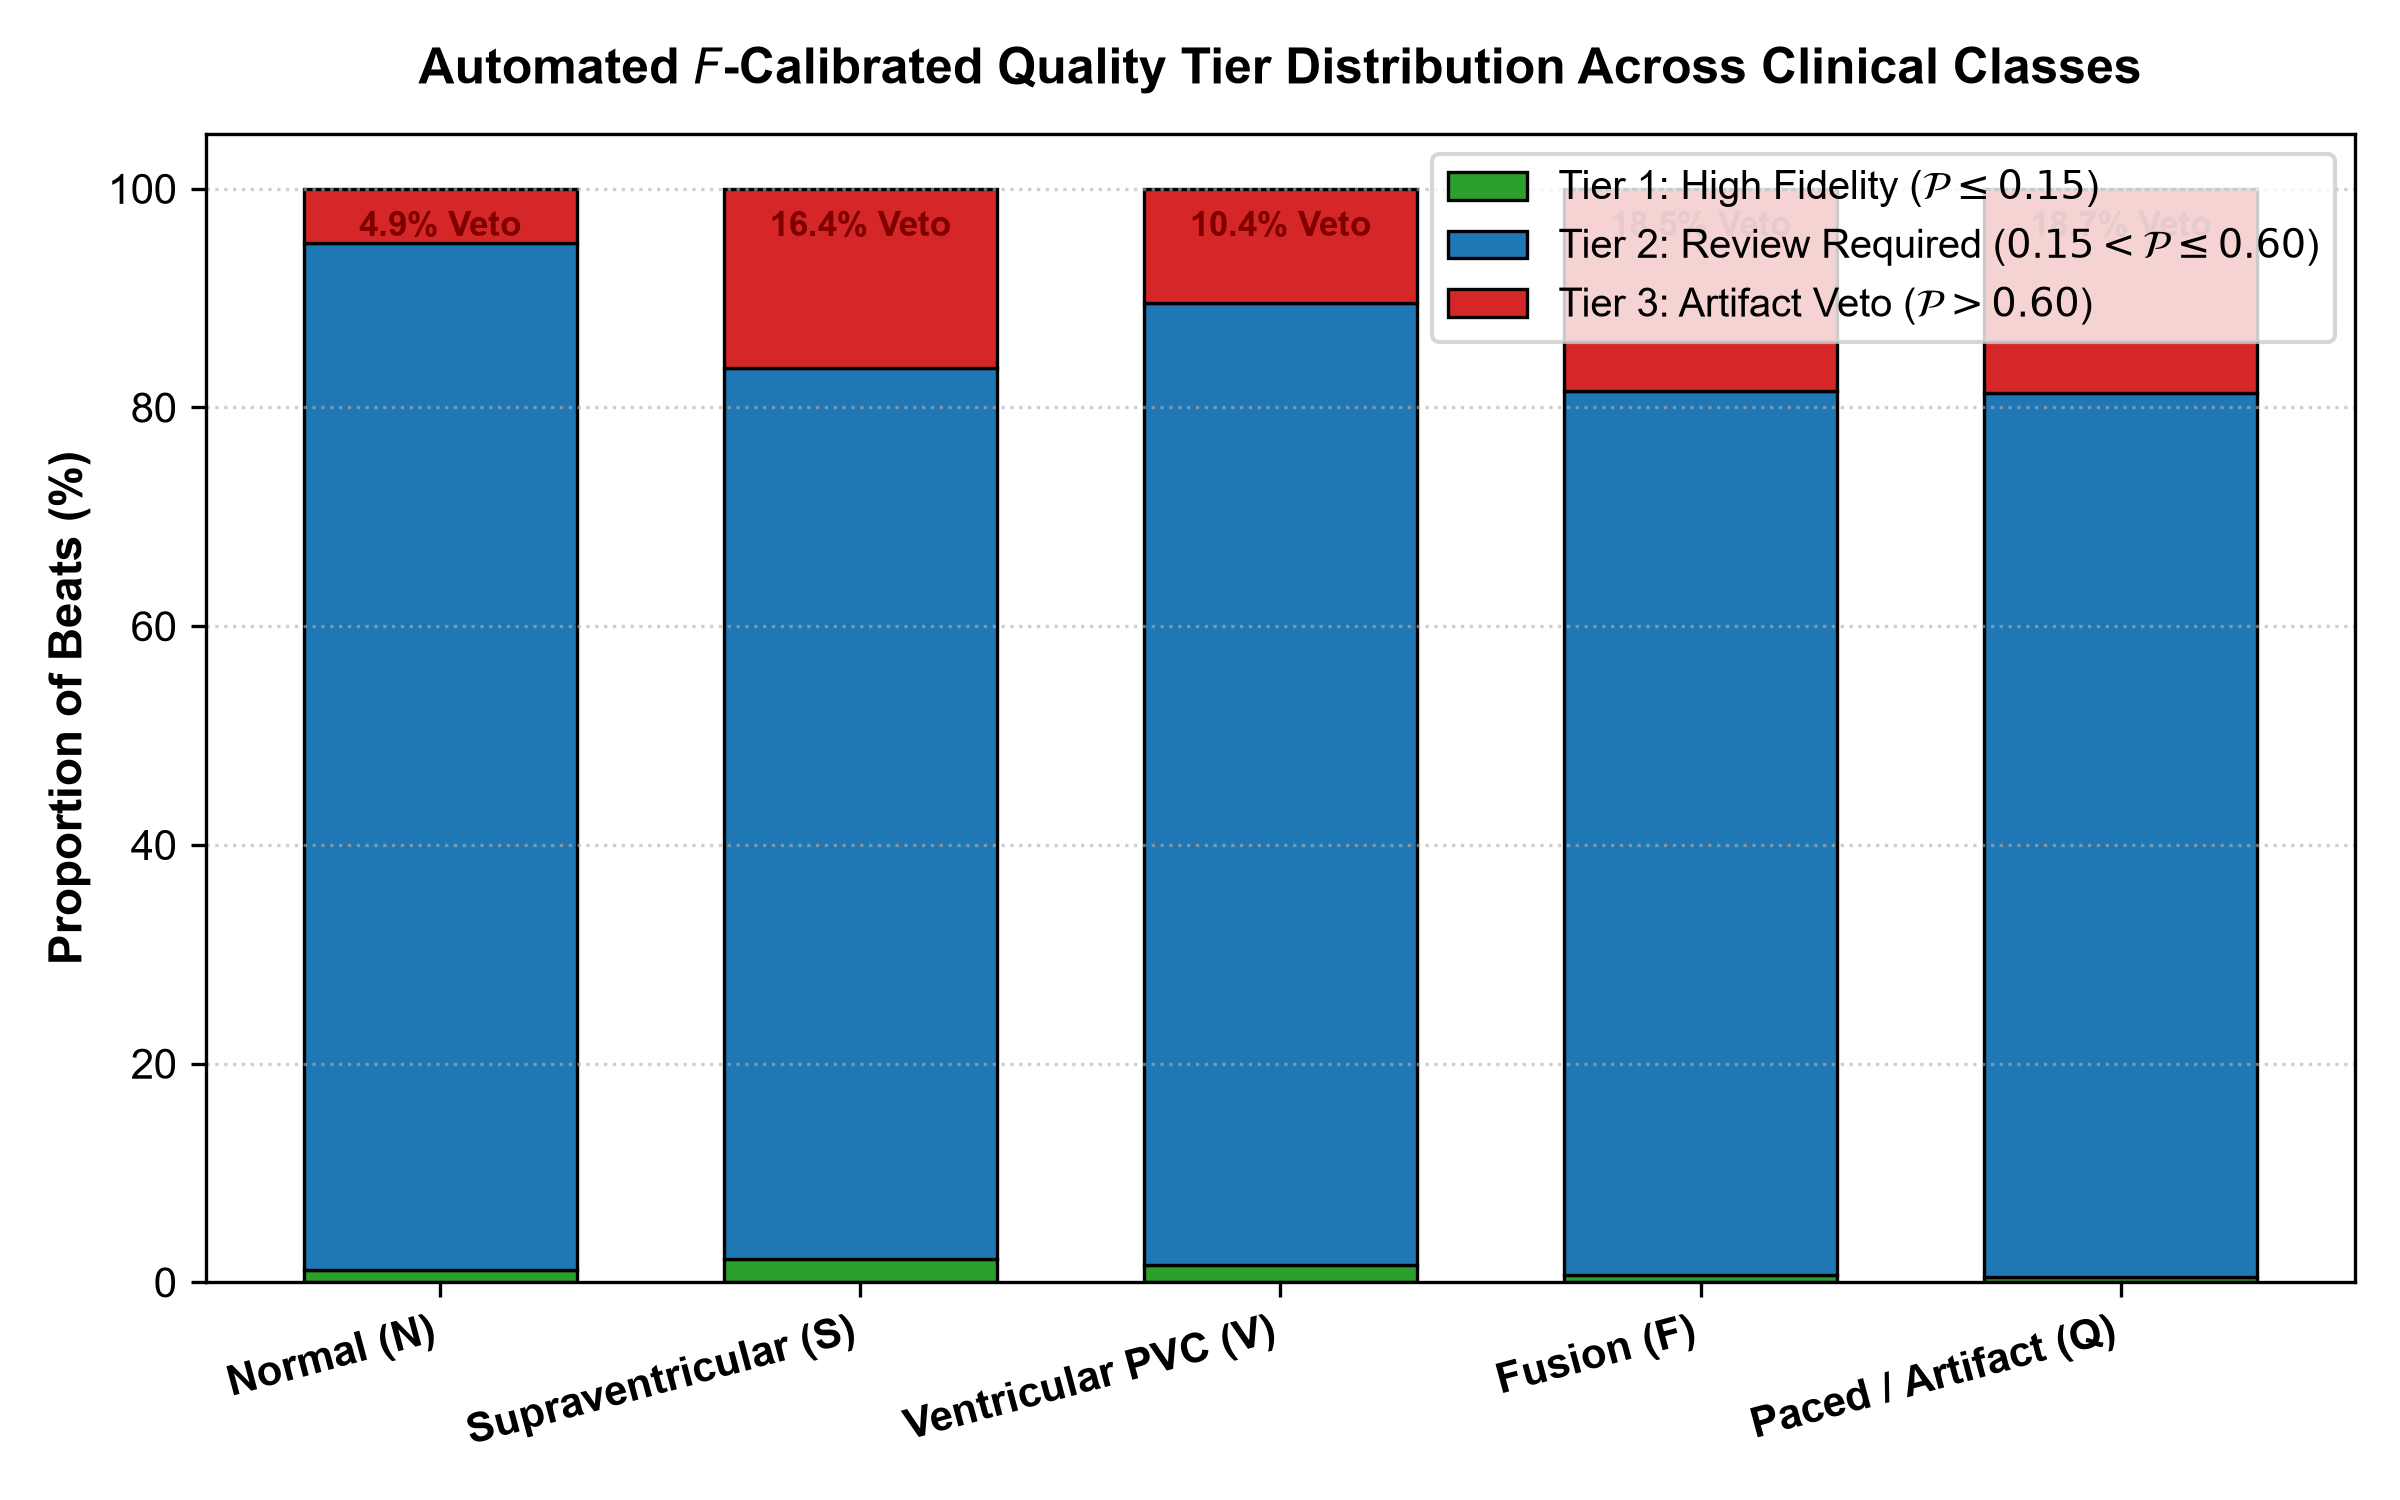
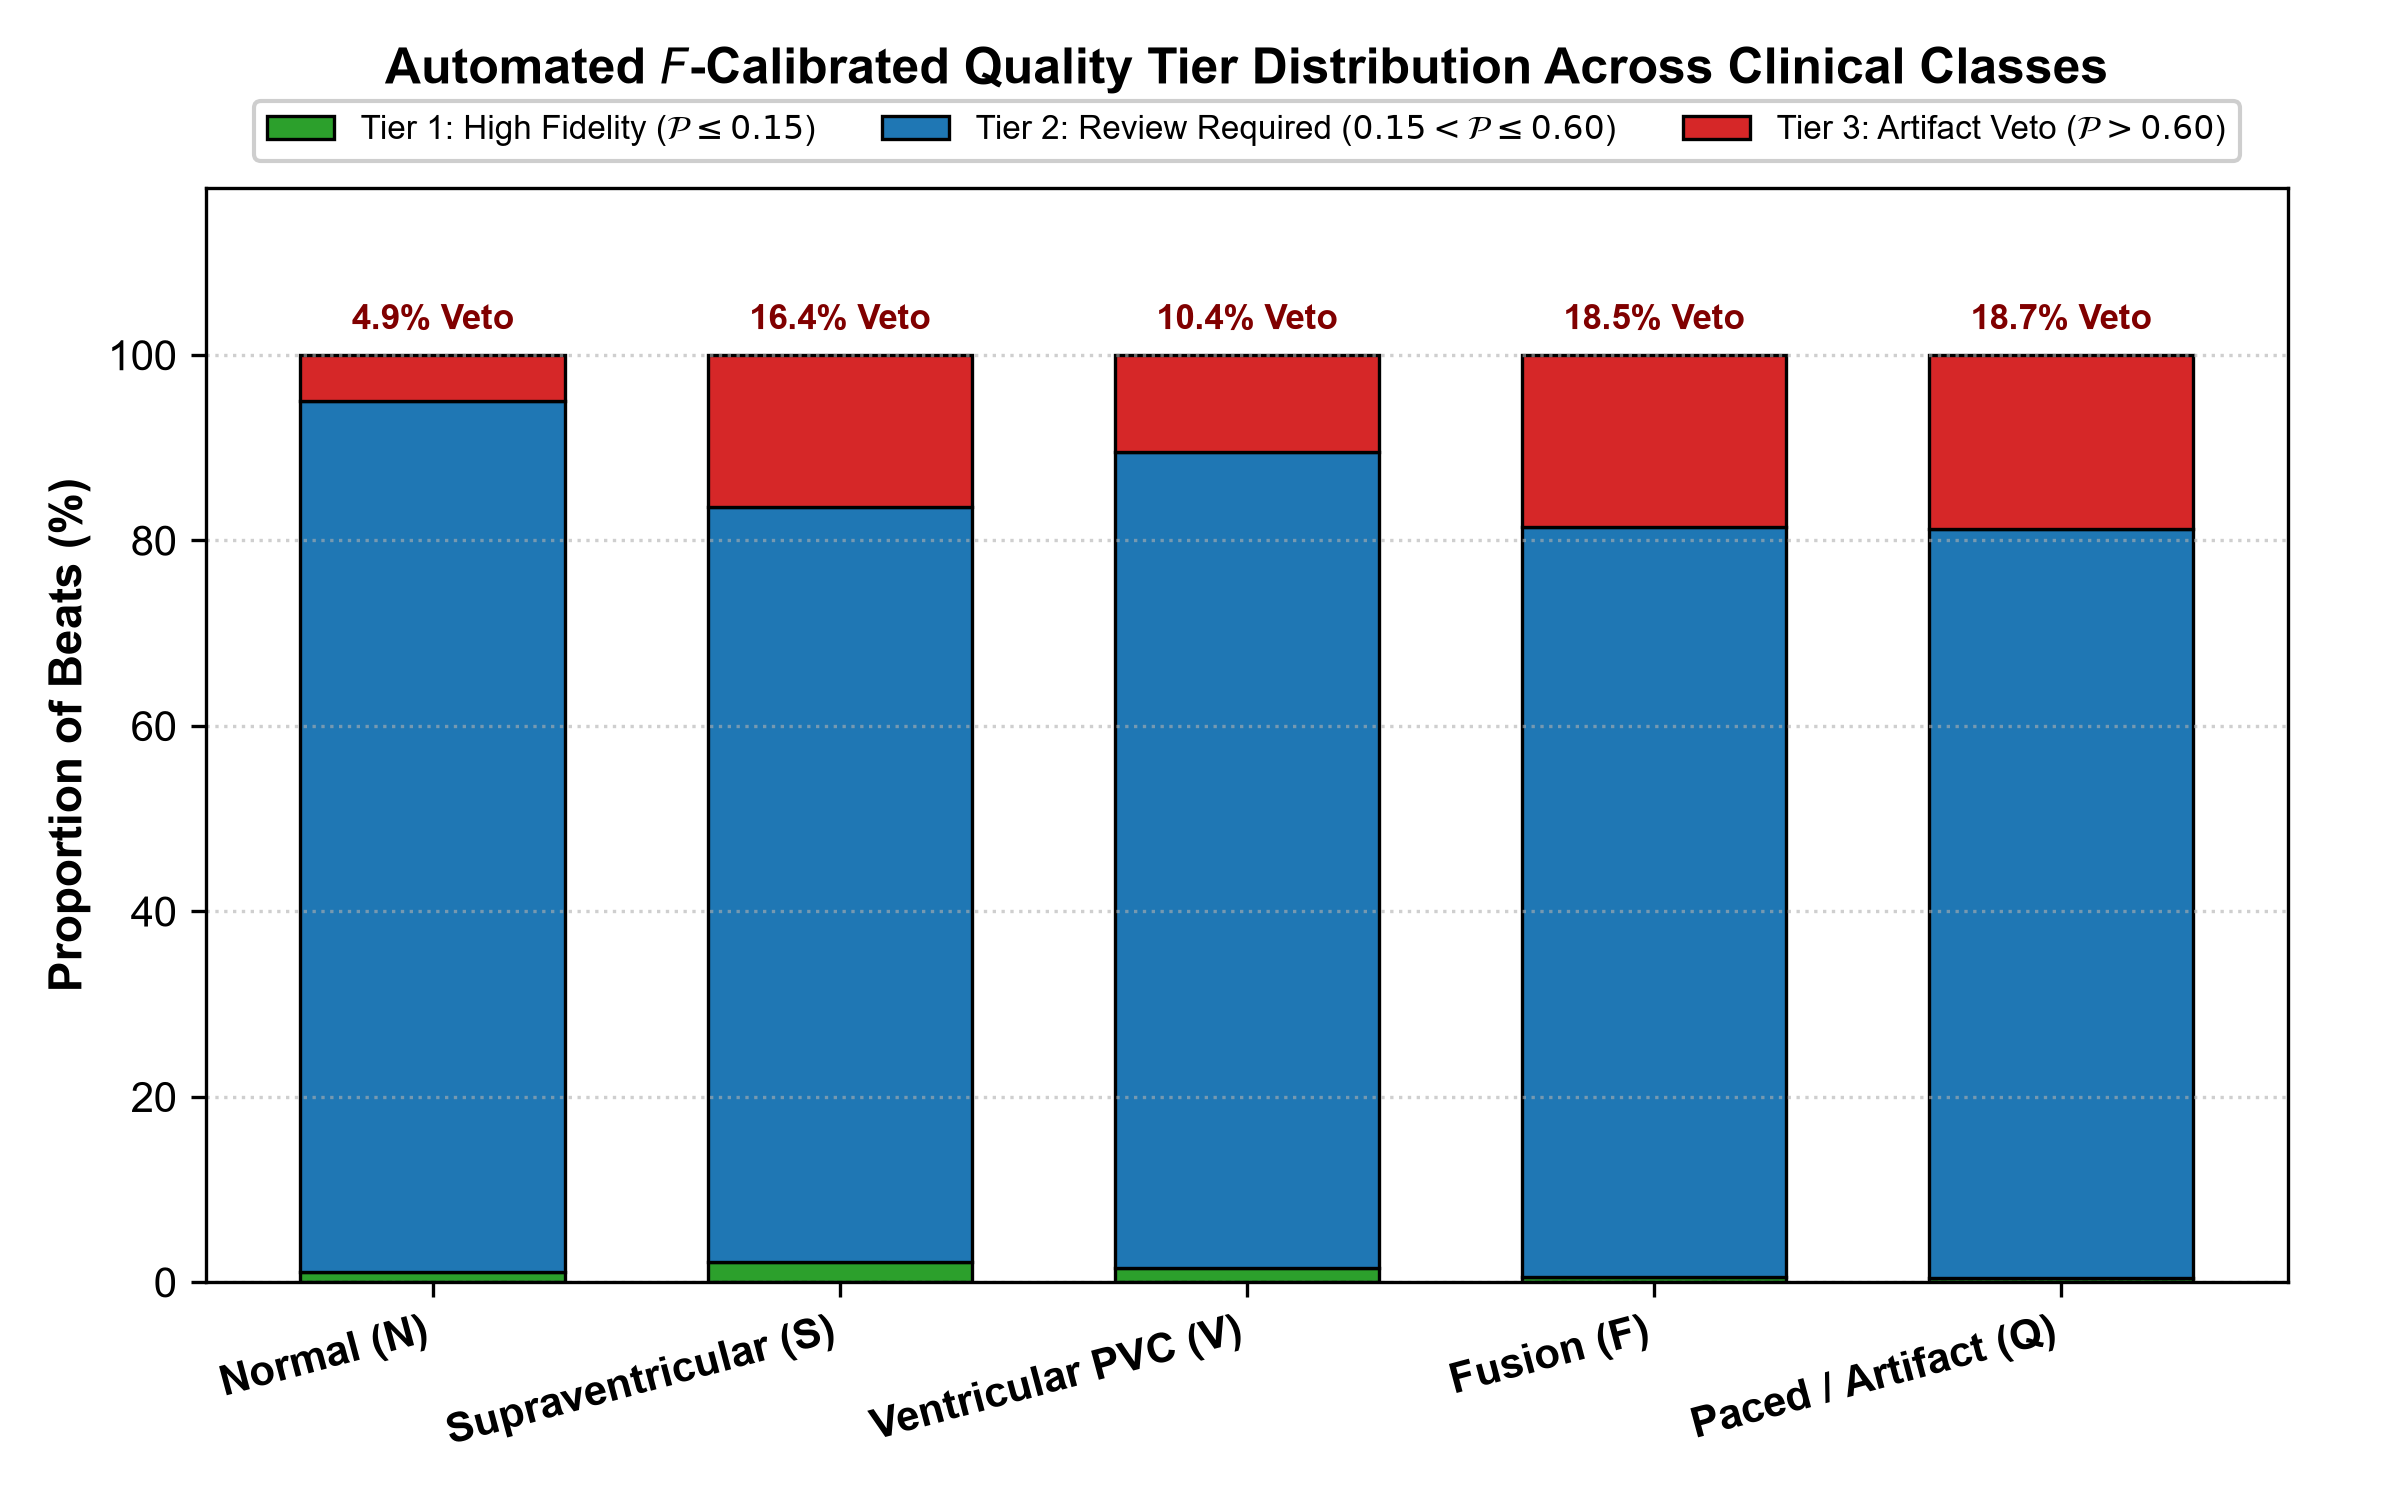
Enhance Figure 3 layout and unblock legend overlay on veto statistics

diff --git a/scripts/generate_publication_figures.py b/scripts/generate_publication_figures.py
@@ -143,15 +143,15 @@ def generate_figure3_tiers(results_dir, figures_dir):
     p3 = ax.bar(x, t3, width, bottom=t1 + t2, label=r"Tier 3: Artifact Veto ($\mathcal{P} > 0.60$)", color="#d62728", edgecolor="black", lw=0.8)
     
     ax.set_ylabel("Proportion of Beats (%)", fontweight="bold")
-    ax.set_title("Automated $F$-Calibrated Quality Tier Distribution Across Clinical Classes", fontweight="bold", pad=12)
+    ax.set_title("Automated $F$-Calibrated Quality Tier Distribution Across Clinical Classes", fontweight="bold", pad=25)
     ax.set_xticks(x)
     ax.set_xticklabels(categories, rotation=15, ha="right", fontweight="bold")
-    ax.set_ylim(0, 105)
+    ax.set_ylim(0, 118)
     ax.grid(True, axis="y", ls=":", alpha=0.6)
-    ax.legend(loc="upper right", frameon=True, facecolor="white", edgecolor="#cccccc")
+    ax.legend(loc="lower center", bbox_to_anchor=(0.5, 1.01), ncol=3, frameon=True, facecolor="white", framealpha=0.95, edgecolor="#cccccc", fontsize=8.0)
     
     for i, total_t3 in enumerate(t3):
-        ax.text(i, 95, f"{total_t3:.1f}% Veto", ha="center", va="bottom", fontsize=8.5, fontweight="bold", color="#800000")
+        ax.text(i, 102.0, f"{total_t3:.1f}% Veto", ha="center", va="bottom", fontsize=8.5, fontweight="bold", color="#800000")
         
     plt.tight_layout()
     out_path = os.path.join(figures_dir, "Figure3_Tier_Distribution.png")
